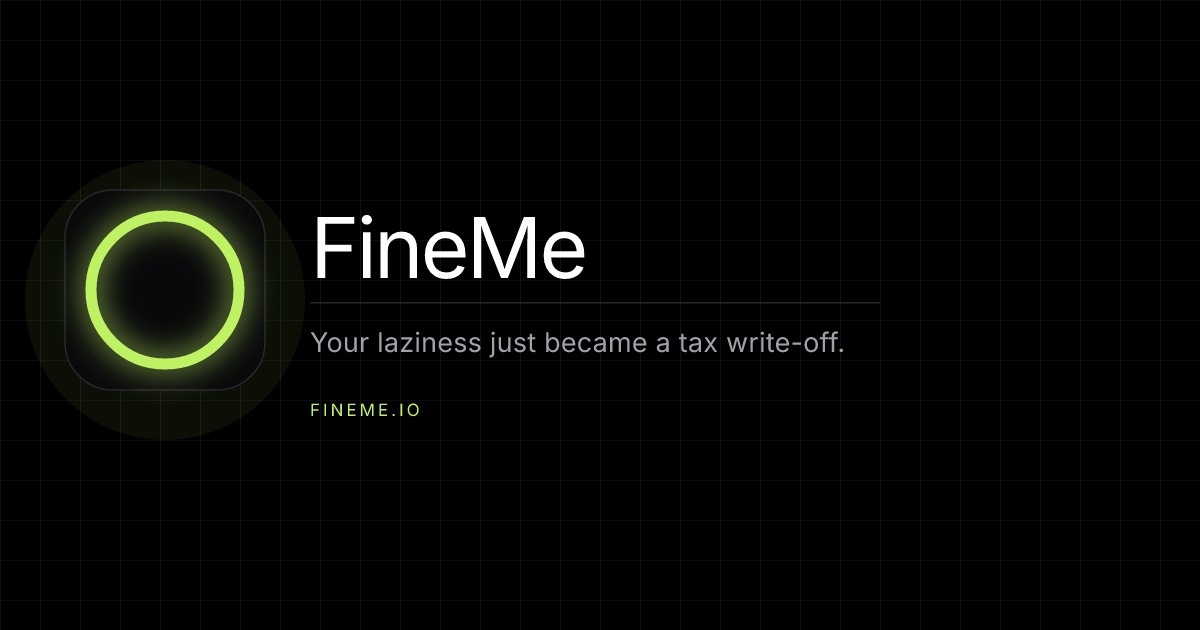
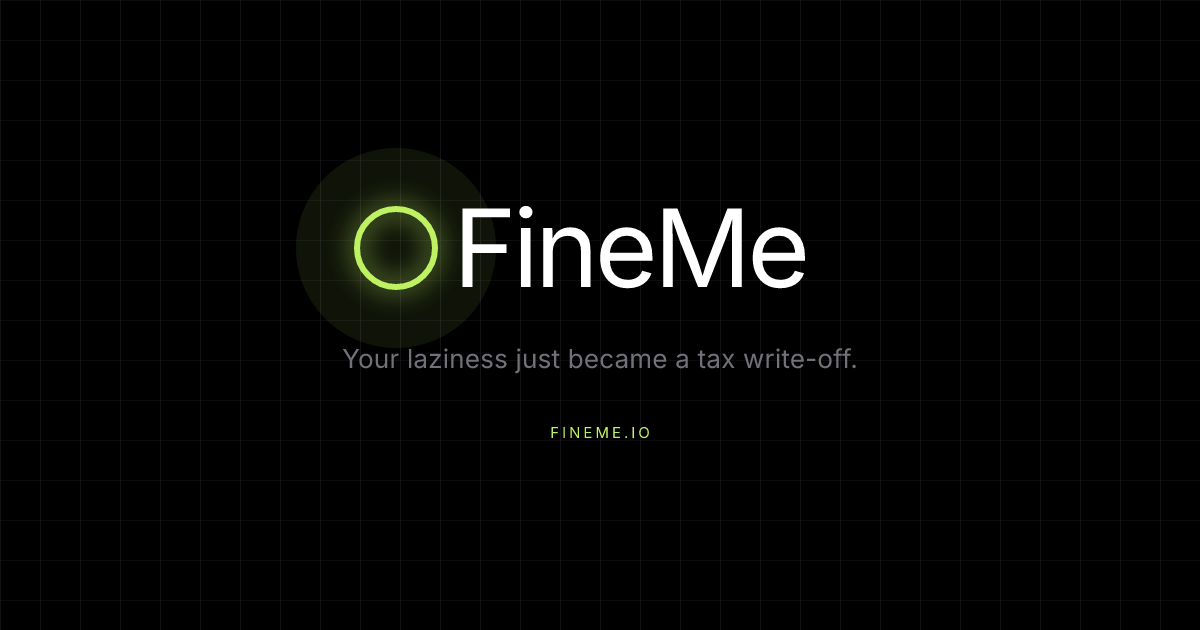
Redesign OG image with centered layout
- Center circle + FineMe wordmark horizontally
- Size circle to match FineMe cap height (inline with landing page logo)
- Remove rounded square icon container for cleaner look
- Bump cache-bust version to v3

Changed region(s): [[0.0308, 0.2714, 0.7092, 0.6333], [0.2467, 0.6333, 0.37, 0.6635], [0.4625, 0.6635, 0.555, 0.6937]]

diff --git a/index.html b/index.html
@@ -9,13 +9,13 @@
     <meta property="og:description" content="AI-verified workouts. Real money on the line. Miss your goal, pay your charity." />
     <meta property="og:type" content="website" />
     <meta property="og:url" content="https://fineme.io" />
-    <meta property="og:image" content="https://fineme.io/og.png?v=2" />
+    <meta property="og:image" content="https://fineme.io/og.png?v=3" />
     <meta property="og:image:width" content="1200" />
     <meta property="og:image:height" content="630" />
     <meta name="twitter:card" content="summary_large_image" />
     <meta name="twitter:title" content="FineMe: Your laziness just became a tax write-off." />
     <meta name="twitter:description" content="AI-verified workouts. Real money on the line. Miss your goal, pay your charity." />
-    <meta name="twitter:image" content="https://fineme.io/og.png?v=2" />
+    <meta name="twitter:image" content="https://fineme.io/og.png?v=3" />
     <meta name="theme-color" content="#000000" />
     <link rel="icon" type="image/svg+xml" href="/favicon.svg" />
     <link rel="alternate icon" href="/favicon.svg" />
